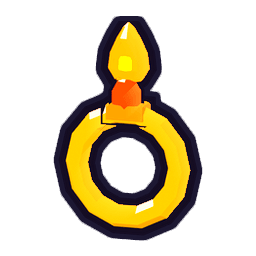
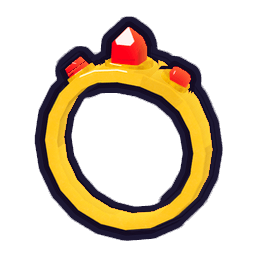
art(relics): 유물 아홉을 Sketchfab 모델(CC BY)로 — 해류 나침반 · 조개 · 서리 뿔피리 · 불씨 반지 · 바람개비 · 점토 인형 · 달 조개 · 비버 왕관 · 왕의 홀
열아홉을 받아 셀 그림체로 시험 렌더하고 지금 그림과 나란히 견줘 더 잘 읽히는 아홉만 바꿨다.
하프 · 낚싯대 · 화살은 가늘어 작게 줄면 안 읽혔고, 겨울 · 산호 왕관 · 얼음 등불 · 폭풍 종은
지금 그림의 뜻(얼음 가시 · 산호 가지 · 번개)이 사라져 그대로 둔다. 동전 둘은 $ · 해골 문양이라 뺐다.
크레딧은 credits.ts · docs/CREDITS.md 두 곳(안 쓴 열하나와 까닭도).

diff --git a/src/ui/credits.ts b/src/ui/credits.ts
@@ -48,6 +48,16 @@ export const SKETCHFAB_CREDITS: readonly ModelCredit[] = [
   { title: "Stylized Dagger", author: "xwhn", url: "https://sketchfab.com/3d-models/stylized-dagger-f742183b679f4964bcbf2b9381ed6c70", use: "유물 '불꽃 단검'" },
   { title: "Stylized Treasure Map", author: "Izzy", url: "https://sketchfab.com/3d-models/stylized-treasure-map-cec61143abbc46bc99201b591942688b", use: "유물 '금박 지도'" },
   { title: "Hand painted shovel", author: "Bohdan Lvov", url: "https://sketchfab.com/3d-models/hand-painted-shovel-04e4270e92b649c6b34273eac360081e", use: "유물 '청동 삽'" },
+  // 유물 2차 아홉(2026-11-25, sketchfab_icons.py RELIC_JOBS r2_* → assemble-relics — 열아홉을 시험 렌더해 지금 그림보다 잘 읽히는 것만)
+  { title: "Low Poly Stylized Compass", author: "pau.raurellgomis", url: "https://sketchfab.com/3d-models/low-poly-stylized-compass-8de466ea26ab43cdadcf67d86344052a", use: "유물 '해류 나침반'" },
+  { title: "Low Poly Clam Shell", author: "gabrielmendesm", url: "https://sketchfab.com/3d-models/low-poly-clam-shell-708f83d6fce940c5827cfd6ce942004d", use: "유물 '조개 껍데기'" },
+  { title: "Viking Horn Stylized", author: "Mamba_Negra", url: "https://sketchfab.com/3d-models/viking-horn-stylized-43413df1e06f4129b31c3e3dd989ae1f", use: "유물 '서리 뿔피리'" },
+  { title: "Ring Stylized", author: "Gabrieltim3D", url: "https://sketchfab.com/3d-models/ring-stylized-f57bd7f5c3804bdd926642175287f1d2", use: "유물 '불씨 반지'" },
+  { title: "Colorful pinwheel", author: "CiboBlu", url: "https://sketchfab.com/3d-models/colorful-pinwheel-13c59b5341df4989888a219436d173dc", use: "유물 '바람개비'" },
+  { title: "Toy haniwa, Japan", author: "kofun", url: "https://sketchfab.com/3d-models/toy-haniwa-japan-856079b4564049ee9e0f81d3d2fa7021", use: "유물 '점토 인형'" },
+  { title: "pearl shell", author: "abdullahpowerfull", url: "https://sketchfab.com/3d-models/pearl-shell-902012feb9364cb5bdc44676e5c079a1", use: "유물 '달 조개'" },
+  { title: "Golden crown", author: "Pieter Ferreira", url: "https://sketchfab.com/3d-models/golden-crown-5689a9525a2c425d93f7d483b93d8cfa", use: "유물 '비버 왕관'" },
+  { title: "Ruby Scepter", author: "Cre-8", url: "https://sketchfab.com/3d-models/ruby-scepter-fc714bca404c4d9e99896d663e8b15e9", use: "유물 '왕의 홀'" },
   // 상점 묶음 그림(2026-11-24, art-gen/blender/sketchfab_icons.py → public/ui/shop)
   { title: "Stylized Crystal Gem pack - Handpainted", author: "ashkan.fancy", url: "https://sketchfab.com/3d-models/stylized-crystal-gem-pack-handpainted-9aa1af6e18b24c99af00e850f9fd2658", use: "상점 붉은 보석 팩 · 강화석 상자 · 유물 '눈꽃 결정' · '혜성 조각' 그림" },
   { title: "Stylized Treasure Chest", author: "Tom Verbeeck", url: "https://sketchfab.com/3d-models/stylized-treasure-chest-dbeae8db89eb433f832d0ef48f12480e", use: "상점 보석 120 · 황금 보급 상자 · 강화석 상자 · 비버 상자 · 성문 방어 보상 상자 · 유물 '보물 상자' 그림" },

diff --git a/art-gen/blender/sketchfab_icons.py b/art-gen/blender/sketchfab_icons.py
@@ -339,6 +339,57 @@ RELIC_JOBS = {
     'oak-shield': (r_oak_shield, 12, 2.0, -24), 'flame-dagger': (r_flame_dagger, 10, 2.0, -16), 'gold-map': (r_gold_map, 22, 2.0, -18),
     'bronze-shovel': (r_bronze_shovel, 10, 2.0, -16),
 }
+
+
+# ── 유물 2차(2026-11-25, 사용자: "유물이나 icon 탈것, 펫 등등 리소스 3d 모델 찾아다가 다시 반영") — 원본 GLB 는 art-gen/out/sketchfab/r-*.glb,
+#    작가 · 라이선스는 docs/CREDITS.md. 열아홉을 시험 렌더해 지금 그림과 나란히 견주고 더 잘 읽히는 열만 남겼다 — 하프 · 낚싯대 · 화살은 가늘고 어두워
+#    작게 줄면 안 읽혔고, 겨울 · 산호 왕관 · 얼음 등불 · 폭풍 종은 지금 그림의 뜻(얼음 가시 · 산호 가지 · 번개)이 사라졌다. 구리 동전은 해골 문양이라, 황금 열매(도토리)는 금빛으로 칠하면 모자가 묻혀 덩어리로 보여 뺐다.
+ICE = ('#1f4f8a', '#e6f8ff')
+
+
+def r2_tide_compass():   # 해류 나침반(물 · SSR) — 눕혀 있는 나침반을 세워 판이 보이게
+    placed('r-compass.glb', 1.85, (0, 0, -0.75), (72, 0, 0))
+
+
+def r2_clam_shell():   # 조개 껍데기(물 · N)
+    placed('r-clam.glb', 1.7, (0, 0, -0.85))
+
+
+def r2_frost_horn():   # 서리 뿔피리(서리 · R) — 바이킹 뿔을 얼음빛으로
+    _, ms = placed('r-horn.glb', 1.9, (0, 0, -0.6), (0, -18, 0))
+    tint(ms, *ICE)
+
+
+def r2_ember_ring():   # 불씨 반지(불 · R) — 붉은 보석 금반지
+    placed('r-ring.glb', 1.75, (0, 0, -0.88))
+
+
+def r2_pinwheel():   # 바람개비(바람 · R)
+    placed('r-pinwheel.glb', 1.85, (0, 0, -0.92))
+
+
+def r2_clay_doll():   # 점토 인형(땅 · N) — 하니와 장난감
+    placed('r-haniwa.glb', 1.7, (0, 0, -0.85))
+
+
+def r2_moon_shell():   # 달 조개(별 · R) — 진주 조개를 세운다
+    placed('r-pearlshell.glb', 1.8, (0, 0, -0.7), (68, 0, 0))
+
+
+def r2_beaver_crown():   # 비버 왕관(금 · SSR)
+    placed('r-crown-gold.glb', 1.75, (0, 0, -0.62))
+
+
+def r2_king_scepter():   # 왕의 홀(금 · LR) — 루비 홀을 비스듬히
+    placed('r-scepter.glb', 1.95, (0, 0, -0.95), (0, 24, 0))
+
+
+RELIC_JOBS.update({
+    'tide-compass': (r2_tide_compass, 16, 2.0, -16), 'clam-shell': (r2_clam_shell, 18, 2.0, -12),
+    'frost-horn': (r2_frost_horn, 14, 2.1, -10), 'ember-ring': (r2_ember_ring, 14, 2.0, 70), 'pinwheel': (r2_pinwheel, 10, 2.0, -18),
+    'clay-doll': (r2_clay_doll, 12, 2.0, 160), 'moon-shell': (r2_moon_shell, 14, 2.0, -12), 'beaver-crown': (r2_beaver_crown, 22, 2.0, -20),
+    'king-scepter': (r2_king_scepter, 10, 2.1, -10),
+})
 RELIC_OUT = os.environ.get('SFI_RELIC_OUT') or os.path.join(ROOT, 'art-gen', 'out', 'b3d-sfrelics')
 
 

diff --git a/docs/CREDITS.md b/docs/CREDITS.md
@@ -46,6 +46,15 @@
 | 유물 '불꽃 단검' | Stylized Dagger | xwhn | https://sketchfab.com/3d-models/stylized-dagger-f742183b679f4964bcbf2b9381ed6c70 | r-dagger.glb |
 | 유물 '금박 지도' | Stylized Treasure Map | Izzy | https://sketchfab.com/3d-models/stylized-treasure-map-cec61143abbc46bc99201b591942688b | r-map.glb |
 | 유물 '청동 삽' | Hand painted shovel | Bohdan Lvov | https://sketchfab.com/3d-models/hand-painted-shovel-04e4270e92b649c6b34273eac360081e | r-shovel.glb |
+| 유물 '해류 나침반' | Low Poly Stylized Compass | pau.raurellgomis | https://sketchfab.com/3d-models/low-poly-stylized-compass-8de466ea26ab43cdadcf67d86344052a | r-compass.glb |
+| 유물 '조개 껍데기' | Low Poly Clam Shell | gabrielmendesm | https://sketchfab.com/3d-models/low-poly-clam-shell-708f83d6fce940c5827cfd6ce942004d | r-clam.glb |
+| 유물 '서리 뿔피리' | Viking Horn Stylized | Mamba_Negra | https://sketchfab.com/3d-models/viking-horn-stylized-43413df1e06f4129b31c3e3dd989ae1f | r-horn.glb |
+| 유물 '불씨 반지' | Ring Stylized | Gabrieltim3D | https://sketchfab.com/3d-models/ring-stylized-f57bd7f5c3804bdd926642175287f1d2 | r-ring.glb |
+| 유물 '바람개비' | Colorful pinwheel | CiboBlu | https://sketchfab.com/3d-models/colorful-pinwheel-13c59b5341df4989888a219436d173dc | r-pinwheel.glb |
+| 유물 '점토 인형' | Toy haniwa, Japan | kofun | https://sketchfab.com/3d-models/toy-haniwa-japan-856079b4564049ee9e0f81d3d2fa7021 | r-haniwa.glb |
+| 유물 '달 조개' | pearl shell | abdullahpowerfull | https://sketchfab.com/3d-models/pearl-shell-902012feb9364cb5bdc44676e5c079a1 | r-pearlshell.glb |
+| 유물 '비버 왕관' | Golden crown | Pieter Ferreira | https://sketchfab.com/3d-models/golden-crown-5689a9525a2c425d93f7d483b93d8cfa | r-crown-gold.glb |
+| 유물 '왕의 홀' | Ruby Scepter | Cre-8 | https://sketchfab.com/3d-models/ruby-scepter-fc714bca404c4d9e99896d663e8b15e9 | r-scepter.glb |
 | 상점 붉은 보석 팩(8 · 45 · 120) · 강화석 상자 · 유물 '눈꽃 결정' · '혜성 조각' | Stylized Crystal Gem pack - Handpainted | ashkan.fancy | https://sketchfab.com/3d-models/stylized-crystal-gem-pack-handpainted-9aa1af6e18b24c99af00e850f9fd2658 | i-gems.glb |
 | 상점 보석 120 · 황금 보급 상자 · 강화석 상자 · 비버 상자 · 성문 방어 보상 상자 · 유물 '보물 상자' | Stylized Treasure Chest | Tom Verbeeck | https://sketchfab.com/3d-models/stylized-treasure-chest-dbeae8db89eb433f832d0ef48f12480e | i-chest.glb |
 | 상점 방치 가속권(24h · 광고) | Stylized Potion | Moon Cube Studios (@KinanArts) | https://sketchfab.com/3d-models/stylized-potion-78d411a585144c4f91ca51d876982ed7 | i-potion.glb |
@@ -64,6 +73,17 @@
 | Mouse warrior | Allen Tseng | https://sketchfab.com/3d-models/mouse-warrior-53d5c94af4094720b50fc39a1317aca6 | (받지 않음) | 설명에 "concept art from Ray Teja" — 같은 까닭 |
 | Cartoon Cat | Baydinman | https://sketchfab.com/3d-models/cartoon-cat-4a738eaed9d34547a3f5a705a0e37c6a | (받지 않음) | 태그 cryptokitties — 다른 IP 모양일 수 있어 뺐다 |
 | Three-headed Beast | Chenchanchong | https://sketchfab.com/3d-models/three-headed-beast-739953b21079401ca3ef56f2b014c7a0 | (지움) | 재질 이름이 Hades_Kerberos — 남의 게임 캐릭터 팬아트일 수 있어 뺐다 |
+| Low-Poly Acorn | Ovenproofmeteor | https://sketchfab.com/3d-models/low-poly-acorn-abf32903cae743b6a5c46e5d3ae96138 | r-acorn.glb | '황금 열매'로 금빛을 입히면 모자가 묻혀 덩어리로 보였다 |
+| Stylized Gold Coin | Keyotine | https://sketchfab.com/3d-models/stylized-gold-coin-dc0b9491f7ea40ffaca034f0a4036d93 | r-coin-gold.glb | 달러($) 문양 — 게임 세계와 안 맞는다 |
+| Pirate Gold Coins - Hand-Painted | Efthalía Estasmalteadas | https://sketchfab.com/3d-models/pirate-gold-coins-hand-painted-60c38b94e08342aca0e419a43f2676c8 | r-coin-pirate.glb | 해골 문양 — '구리 동전'에 안 맞는다 |
+| Harp | GRVKiN | https://sketchfab.com/3d-models/harp-5ac529c229ed4f4fafd156f6a819b89e | r-harp.glb | 어둡고 가는 선이 많아 유물 칸 크기에서 안 읽혔다 |
+| Stylized Old Fishing Rod Low Poly | alexi.smnd | https://sketchfab.com/3d-models/stylized-old-fishing-rod-low-poly-82973c905293422b8c47e0bf82170757 | r-rod.glb | 가늘어 작게 줄면 안 읽혔다 |
+| Arrow 2 | web_beast | https://sketchfab.com/3d-models/arrow-2-b71242cd60584efdaaff5180c174f51a | r-arrow.glb | 가늘어 작게 줄면 안 읽혔다 |
+| High Poly Stylized Feather - Free Download | Laurie Annis | https://sketchfab.com/3d-models/high-poly-stylized-feather-free-download-1ed3b855d5e74e6489b9e9805ce9c2c5 | r-feather.glb | 깃 부분이 외곽선 껍질과 한 메시라 셀로 그리면 검은 덩어리였다 |
+| Royal Crown | Incg5764 | https://sketchfab.com/3d-models/royal-crown-2d7c97ee437e42f2a93b85bb64bffa2b | r-crown-royal.glb | 얼음빛으로 칠하니 지금 '겨울 왕관'(얼음 가시)보다 뜻이 약했다 |
+| Free Low Poly Crown | warcool | https://sketchfab.com/3d-models/free-low-poly-crown-fe698c2b67d54695bfa49b890a9c7250 | r-crown-low.glb | 산호색으로 칠해도 지금 '산호 왕관'(산호 가지)보다 뜻이 약했다 |
+| Simple Stylized Lantern (HandPainted) | mojoGameDev | https://sketchfab.com/3d-models/simple-stylized-lantern-handpainted-7d6c859014ca42e5af0c093c2ecafa33 | r-lantern.glb | 흰 상자처럼 보여 지금 '얼음 등불'보다 못했다 |
+| Cute Bronze Bell | Incg5764 | https://sketchfab.com/3d-models/cute-bronze-bell-9bece9fd423f4704b7460b85fad0634c | r-bell.glb | 지금 '폭풍 종'(번개)보다 뜻이 약했다 |
 
 ## 고르는 규칙
 
